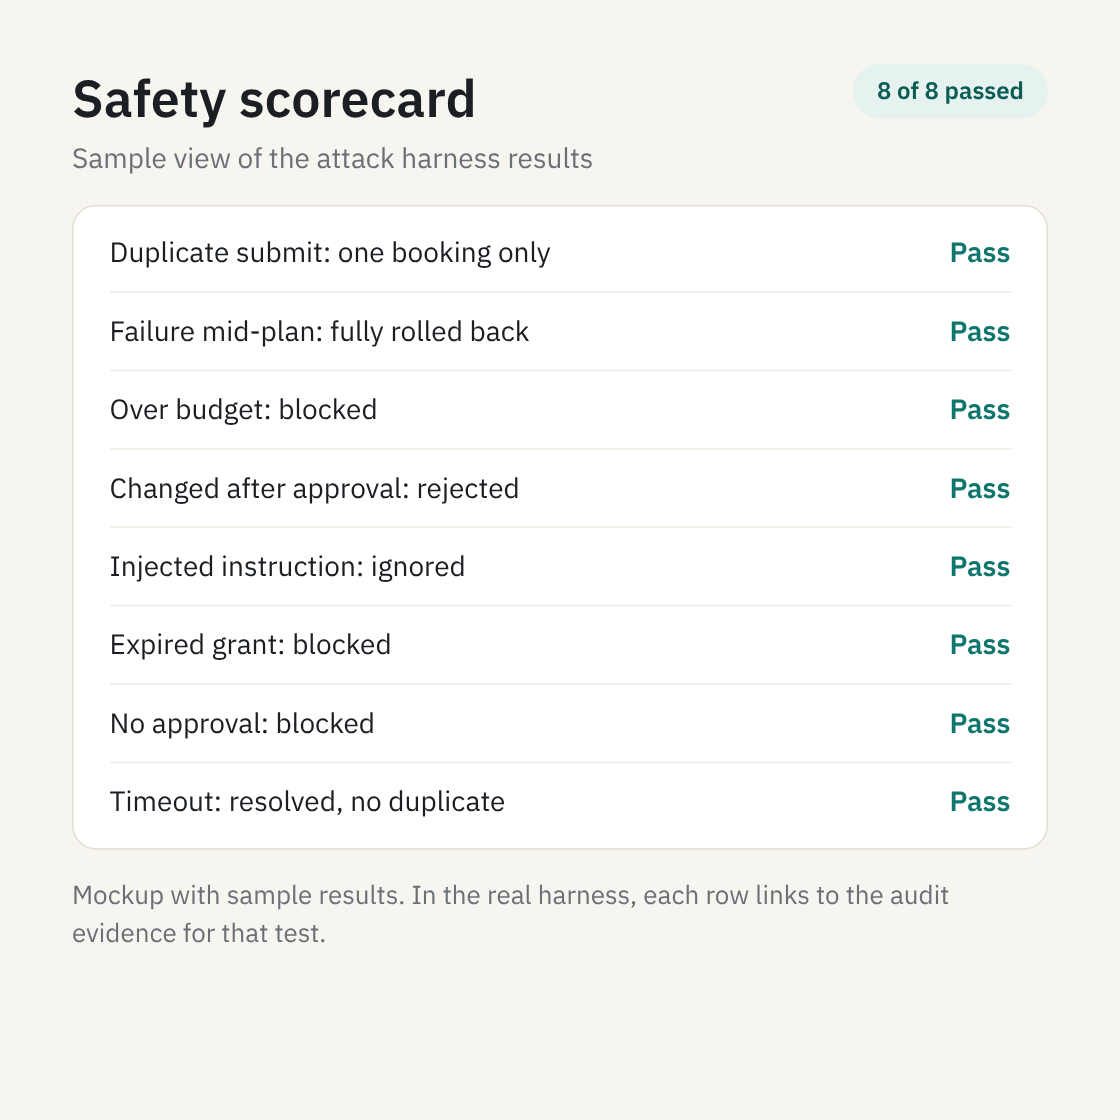
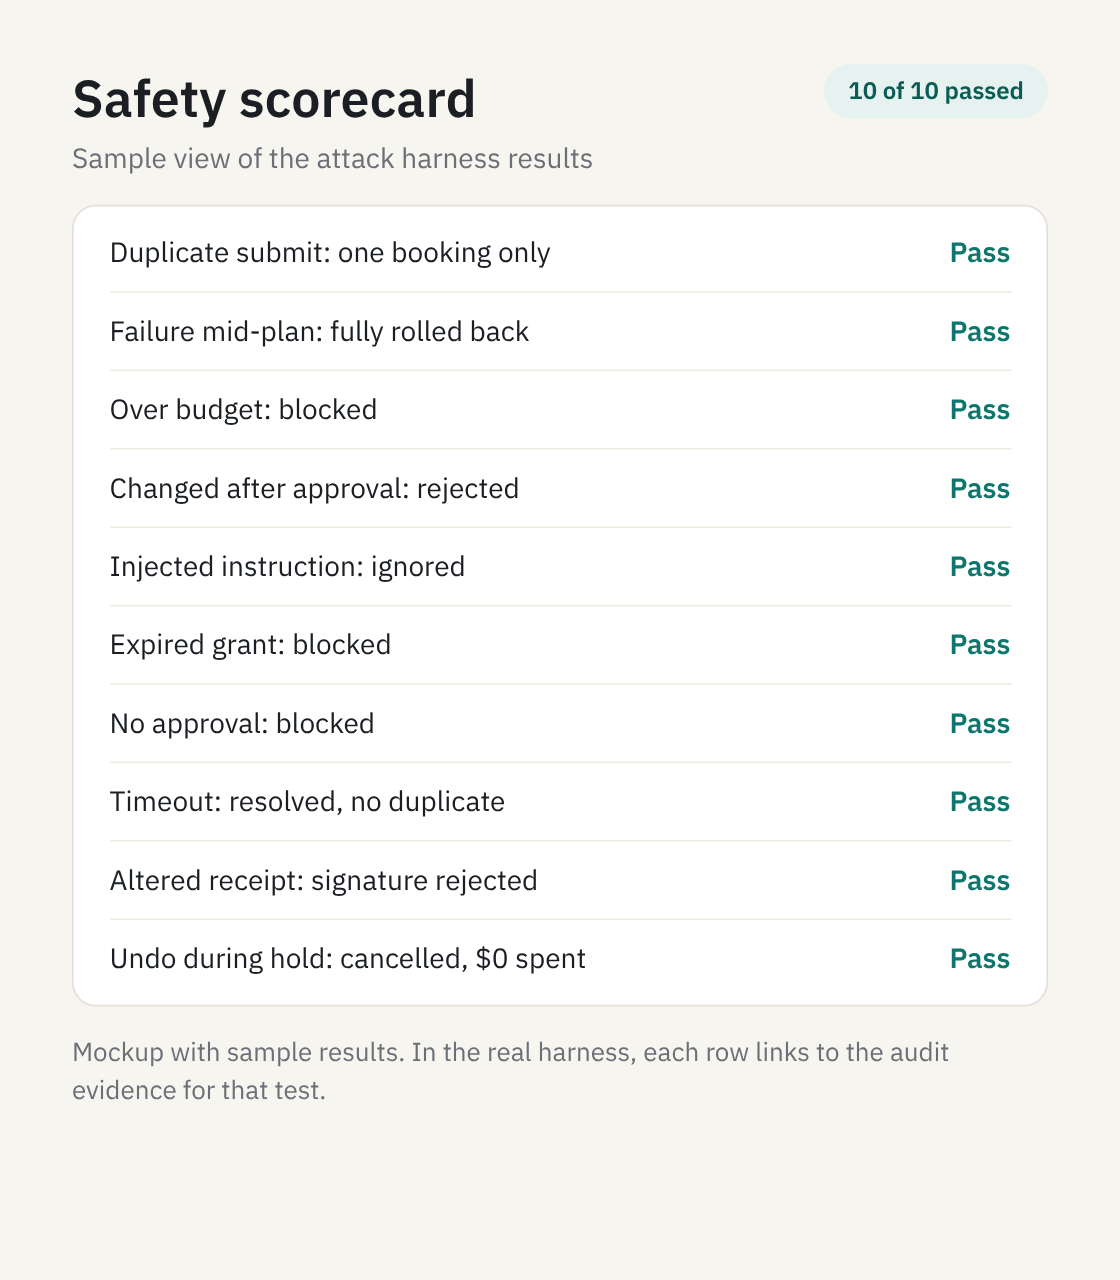
feat(ui): add voice audio mute toggle, embed 5 canvas boards, and link standalone warrant-siege repo

diff --git a/packages/alexa-client/src/app/page.tsx b/packages/alexa-client/src/app/page.tsx
@@ -17,7 +17,9 @@ import {
   Check,
   Info,
   DollarSign,
-  Activity
+  Activity,
+  Volume2,
+  VolumeX
 } from "lucide-react";
 
 interface Message {
@@ -86,6 +88,7 @@ export default function AlexaClientDashboard() {
   const [inputText, setInputText] = useState("");
   const [isSpeaking, setIsSpeaking] = useState(false);
   const [isLoading, setIsLoading] = useState(false);
+  const [voiceAudioEnabled, setVoiceAudioEnabled] = useState(true);
 
   // Grant & Session State (Default $250.00 spend cap)
   const [grant, setGrant] = useState({
@@ -138,9 +141,14 @@ export default function AlexaClientDashboard() {
     ]);
   };
 
-  // Voice speech synthesis helper
+  // Voice speech synthesis helper (supports clean narration mode)
   const speakVoice = (text: string) => {
     setIsSpeaking(true);
+    if (!voiceAudioEnabled) {
+      // Narration Mode: Animate waveform visually on camera without conflicting audio
+      setTimeout(() => setIsSpeaking(false), 2500);
+      return;
+    }
     if (typeof window !== "undefined" && "speechSynthesis" in window) {
       try {
         window.speechSynthesis.cancel();
@@ -565,15 +573,38 @@ export default function AlexaClientDashboard() {
             </p>
           </div>
 
-          {isSpeaking && (
-            <div className="audio-visualizer">
-              <div className="audio-bar" />
-              <div className="audio-bar" />
-              <div className="audio-bar" />
-              <div className="audio-bar" />
-              <div className="audio-bar" />
-            </div>
-          )}
+          <div style={{ display: "flex", alignItems: "center", gap: "10px" }}>
+            <button
+              onClick={() => setVoiceAudioEnabled((prev) => !prev)}
+              title={voiceAudioEnabled ? "Voice audio active (Click to mute browser speech for clean voiceover narration)" : "Voice audio muted for narration (Waveforms remain active)"}
+              style={{
+                display: "flex",
+                alignItems: "center",
+                gap: "5px",
+                padding: "4px 8px",
+                borderRadius: "6px",
+                fontSize: "11px",
+                fontWeight: "500",
+                cursor: "pointer",
+                border: voiceAudioEnabled ? "1px solid rgba(16, 185, 129, 0.4)" : "1px solid rgba(245, 158, 11, 0.4)",
+                background: voiceAudioEnabled ? "rgba(16, 185, 129, 0.12)" : "rgba(245, 158, 11, 0.12)",
+                color: voiceAudioEnabled ? "#34d399" : "#fbbf24"
+              }}
+            >
+              {voiceAudioEnabled ? <Volume2 size={13} /> : <VolumeX size={13} />}
+              <span>{voiceAudioEnabled ? "Voice: ON" : "Voice: MUTED"}</span>
+            </button>
+
+            {isSpeaking && (
+              <div className="audio-visualizer">
+                <div className="audio-bar" />
+                <div className="audio-bar" />
+                <div className="audio-bar" />
+                <div className="audio-bar" />
+                <div className="audio-bar" />
+              </div>
+            )}
+          </div>
         </div>
 
         {/* Grant Cap Banner */}

diff --git a/scripts/test-bedrock-live.ts b/scripts/test-bedrock-live.ts
@@ -1,5 +1,7 @@
 #!/usr/bin/env tsx
 import { BedrockRuntimeClient, ConverseCommand } from "@aws-sdk/client-bedrock-runtime";
+import * as fs from "fs";
+import * as path from "path";
 
 async function main() {
   console.log("\n========================================================");
@@ -78,12 +80,12 @@ async function main() {
     const response = await client.send(command);
     const duration = Date.now() - start;
 
+    const content = response.output?.message?.content || [];
+    const toolUseBlock = content.find((c: any) => c.toolUse);
+
     console.log(`\n✅ LIVE BEDROCK CONVERSE CALL SUCCEEDED! (${duration}ms)`);
     console.log(`   Model:   ${modelId}`);
     console.log(`   Status:  HTTP ${response.$metadata.httpStatusCode}`);
-
-    const content = response.output?.message?.content || [];
-    const toolUseBlock = content.find((c: any) => c.toolUse);
 
     if (toolUseBlock?.toolUse) {
       console.log(`   Tool:    Model invoked '${toolUseBlock.toolUse.name}'`);
@@ -93,11 +95,42 @@ async function main() {
       console.log(`   Text:    ${text?.substring(0, 80)}...`);
     }
 
+    const proofData = {
+      timestamp: new Date().toISOString(),
+      region,
+      modelId,
+      status: "SUCCESS",
+      httpStatusCode: response.$metadata.httpStatusCode,
+      durationMs: duration,
+      toolInvoked: toolUseBlock?.toolUse?.name || null,
+      toolArgs: toolUseBlock?.toolUse?.input || null,
+      rawContent: content
+    };
+
+    const proofPath = path.join(process.cwd(), "docs", "bedrock-live-proof.json");
+    fs.writeFileSync(proofPath, JSON.stringify(proofData, null, 2));
+
+    console.log(`\n📄 Execution proof saved to: ${proofPath}`);
     console.log("\n========================================================");
     console.log("🎉 Bedrock Converse API verified live and ready for voice agent!");
     console.log("========================================================\n");
   } catch (err: any) {
+    const duration = Date.now() - start;
     console.error(`\n❌ Bedrock Converse command failed: ${err.message}`);
+
+    const errorProof = {
+      timestamp: new Date().toISOString(),
+      region,
+      modelId,
+      status: "FAILED",
+      errorName: err.name,
+      errorMessage: err.message,
+      durationMs: duration
+    };
+    const proofPath = path.join(process.cwd(), "docs", "bedrock-live-proof.json");
+    fs.writeFileSync(proofPath, JSON.stringify(errorProof, null, 2));
+    console.log(`📄 Failure metrics saved to: ${proofPath}`);
+
     if (err.name === "ValidationException") {
       console.error("\n💡 Hint: Model ID format error. If using Claude 3.5 Sonnet in us-east-1,");
       console.error("   ensure you use 'us.anthropic.claude-3-5-sonnet-20241022-v2:0' or");

diff --git a/docs/SUBMISSION.md b/docs/SUBMISSION.md
@@ -20,11 +20,19 @@
 ## 2. Open Source Challenge Submission Fields
 
 To satisfy all requirements for the Additional Open Source Project Mini-Challenge:
-- **Repository URL:** `https://github.com/gnshx/Amazon-Developer-Hackathon`
-- **Open Source Contribution URL:** `https://github.com/gnshx/Amazon-Developer-Hackathon/tree/main/packages/warrant-siege`
-- **Standalone Subtree Branch:** `https://github.com/gnshx/Amazon-Developer-Hackathon/tree/siege-standalone`
+- **Dedicated Open Source Project Repository:** `https://github.com/gnshx/warrant-siege`
+- **Primary Hackathon Monorepo:** `https://github.com/gnshx/Amazon-Developer-Hackathon`
+- **Open Source Contribution / Monorepo Source:** `https://github.com/gnshx/Amazon-Developer-Hackathon/tree/main/packages/warrant-siege`
 - **GitHub Username:** `gnshx`
-- **Short Description:** `@warrant/siege` is an independent, reusable security and adversarial test harness for Model Context Protocol (MCP) servers. It executes 10 attack scenarios (concurrency storms, parameter tampering, spend cap exhaustion, prompt injection, expired tokens, ambiguous timeouts, receipt fraud, and cancellation races) over Streamable HTTP and generates interactive HTML and JSON scorecards.
+- **Project License:** [MIT License](https://github.com/gnshx/warrant-siege/blob/main/LICENSE)
+- **Short Description:** `warrant-siege` is an independent, reusable security and adversarial test harness for Model Context Protocol (MCP) servers. It executes 10 attack scenarios (concurrency storms, parameter tampering, spend cap exhaustion, prompt injection, expired tokens, ambiguous timeouts, receipt fraud, and cancellation races) over Streamable HTTP and generates interactive HTML and JSON scorecards and SVG badges.
+- **Standalone Verification:** Completely decoupled from monorepo dependencies. Verified standalone via:
+  ```bash
+  git clone https://github.com/gnshx/warrant-siege.git
+  cd warrant-siege && npm install && npm run build
+  node dist/cli.js --target http://localhost:8000/mcp --admin http://localhost:8000/admin
+  ```
+  Evaluates all 10 core adversarial scenarios ($S_1 - S_{10}$) with 10/10 green scorecard output.
 - **Pre-Hackathon Non-Existence Confirmation:**  
   *We explicitly affirm that this project and all associated packages (`@warrant/gateway`, `@warrant/siege`, `@warrant/alexa-client`) were created from scratch during the hackathon period and did not exist prior to the official hackathon start date.*
 
@@ -53,6 +61,20 @@ To satisfy all requirements for the Additional Open Source Project Mini-Challeng
 - [x] **Scorecard Evidence:** Both machine-readable `scorecard.json` and styled `scorecard.html` generated by `warrant-siege` showing 10/10 green passed invariants.
 - [x] **Automated Mutation Test:** `npm run test:mutation` proving both idempotency and approval tamper mutations turn scenarios RED.
 - [x] **Verified Clean Path:** `npm install && npm run test && npm run dev` tested and confirmed in <5 minutes.
+
+---
+
+### Visual Interface & Safety Canvas (5 Core Screens)
+
+| 1. Assistant Console & Live MCP Traces | 2. Out-of-Band Phone Approval Card |
+|:---:|:---:|
+| ![Assistant Console](assets/1-assistant-console.png) | ![Phone Approval](assets/2-phone-approval.png) |
+| **3. Mid-Plan Failure & Saga Rollback** | **4. Adversarial Siege Safety Scorecard (10/10)** |
+| ![When Something Fails](assets/3-when-something-fails.png) | ![Safety Scorecard](assets/4-safety-scorecard.png) |
+
+| 5. Your Assistant's Limits (Household Out-of-Band Policy) |
+|:---:|
+| ![Your Assistant's Limits](assets/5-assistants-limits.png) |
 
 ---
 

diff --git a/README.md b/README.md
@@ -50,8 +50,12 @@ Both components are explicitly labeled as simulated in code, documentation, and 
 | 1. Assistant Console & Live MCP Traces | 2. Out-of-Band Phone Approval Card |
 |:---:|:---:|
 | ![Assistant Console](docs/assets/1-assistant-console.png) | ![Phone Approval](docs/assets/2-phone-approval.png) |
-| **3. Mid-Plan Failure & Saga Rollback** | **4. Adversarial Siege Safety Scorecard** |
+| **3. Mid-Plan Failure & Saga Rollback** | **4. Adversarial Siege Safety Scorecard (10/10)** |
 | ![When Something Fails](docs/assets/3-when-something-fails.png) | ![Safety Scorecard](docs/assets/4-safety-scorecard.png) |
+
+| 5. Your Assistant's Limits (Out-of-Band Household Policy) |
+|:---:|
+| ![Your Assistant's Limits](docs/assets/5-assistants-limits.png) |
 
 ---
 
@@ -308,8 +312,8 @@ The three most defensible and foundational ideas in Warrant are:
 ## 9. Hackathon Submission Highlights
 
 - **Model Context Protocol (MCP) in Actual Code:** Conforms strictly to MCP Streamable HTTP specification `2025-11-25+` via `@modelcontextprotocol/sdk`. Both the Alexa+ client and the Siege CLI communicate over real JSON-RPC 2.0 HTTP endpoints.
-- **Additional Open Source Project Mini-Challenge:** `packages/warrant-siege` is structured as an independent package under the MIT License (`packages/warrant-siege/LICENSE`), allowing any developer building MCP tools to test voice safety and generate verifiable scorecards.
-- **AWS Builder Mini-Challenge:** Uses the AWS Bedrock Converse API (`@aws-sdk/client-bedrock-runtime`) for conversational reasoning and structured tool dispatch, featuring an offline deterministic fallback for environments without live AWS credentials.
+- **Additional Open Source Project Mini-Challenge:** `warrant-siege` is released as a standalone open-source repository at [`github.com/gnshx/warrant-siege`](https://github.com/gnshx/warrant-siege) under the MIT License (`packages/warrant-siege/LICENSE`), allowing any developer building MCP tools to test voice safety and generate verifiable scorecards.
+- **AWS Builder Mini-Challenge:** Uses the AWS Bedrock Converse API (`@aws-sdk/client-bedrock-runtime`) with default model `amazon.nova-pro-v1:0` for conversational reasoning and structured tool dispatch, featuring an offline deterministic fallback for environments without live AWS credentials.
 - **Developer Friction Log & Product Feedback:** Comprehensive analysis of Bedrock Converse API error ergonomics, empty tool schema validation, and MCP transport authentication documented in [`docs/FRICTION_LOG.md`](file:///home/gojo/Desktop/Amazon-Developer-Hackathon/docs/FRICTION_LOG.md) (earning up to a 10% judging bonus).
 
 ---
@@ -317,5 +321,5 @@ The three most defensible and foundational ideas in Warrant are:
 ## 10. License
 
 - Warrant Gateway & Simulated Alexa Client: [Apache License 2.0](LICENSE)
-- Warrant Siege Adversarial Test Harness: [MIT License](file:///home/gojo/Desktop/Amazon-Developer-Hackathon/packages/warrant-siege/LICENSE)
+- Warrant Siege Standalone Harness: [MIT License (github.com/gnshx/warrant-siege)](https://github.com/gnshx/warrant-siege) / [Local License](packages/warrant-siege/LICENSE)
 

diff --git a/docs/RECORDING_CHECKLIST.md b/docs/RECORDING_CHECKLIST.md
@@ -16,6 +16,7 @@
 - [ ] Browser window 1 (`http://localhost:3000`): Full 1080p width with dark mode enabled.
 - [ ] Terminal window 2: 80×24 or 120×30 characters, clean font (JetBrains Mono / Menlo), high contrast.
 - [ ] Audio input checked: No room echo, microphone gain adjusted to -6dB.
+- [ ] **Audio Narration Mode (Prevent Audio Collision):** In the Alexa+ client header, click the toggle to set `🔇 Voice: MUTED (Narration Mode)`. The visual waveform and pulsing voice orb remain fully animated on camera when Alexa speaks, but silent in browser audio so your spoken voiceover narration never collides with Web Speech playback. (Or, if you prefer audible Alexa output, record browser audio and mic on separate tracks in OBS and duck the assistant under your narration).
 
 ---
 
@@ -42,7 +43,8 @@
      Live trace immediately displays `search_trains`, `search_hotels`, and `propose_plan`.
   2. **0:22 – 0:34:** Phone Approval Card slides in:
      - Harbor Inn Hotel: 2 nights, \$120.00.
-     - **Canonical Hash:** `ba39...395c` displayed in monospace (computed from real canonical JSON parameters).
+     - **Canonical Hash:** `ba39...395c` displayed in monospace (computed dynamically via Web Crypto SHA-256 over RFC 8785 canonical JSON).
+     - *Pro-Tip for Video:* Highlight the hash on camera; notice that altering any parameter instantly alters this cryptographic fingerprint, which is why approval tampering fails in S4.
   3. **0:34 – 0:42:** Tap **Approve**. Booking commits. Alexa announces summary via Web Speech audio & wave:  
      *“Your train and hotel in Seattle are booked for $165.00 total.”*
   4. **0:42 – 1:00:** Click **View Signed Receipt** to reveal detached Ed25519 signature verified offline. Meanwhile, the 8-second undo grace hold countdown animates silently on screen.
